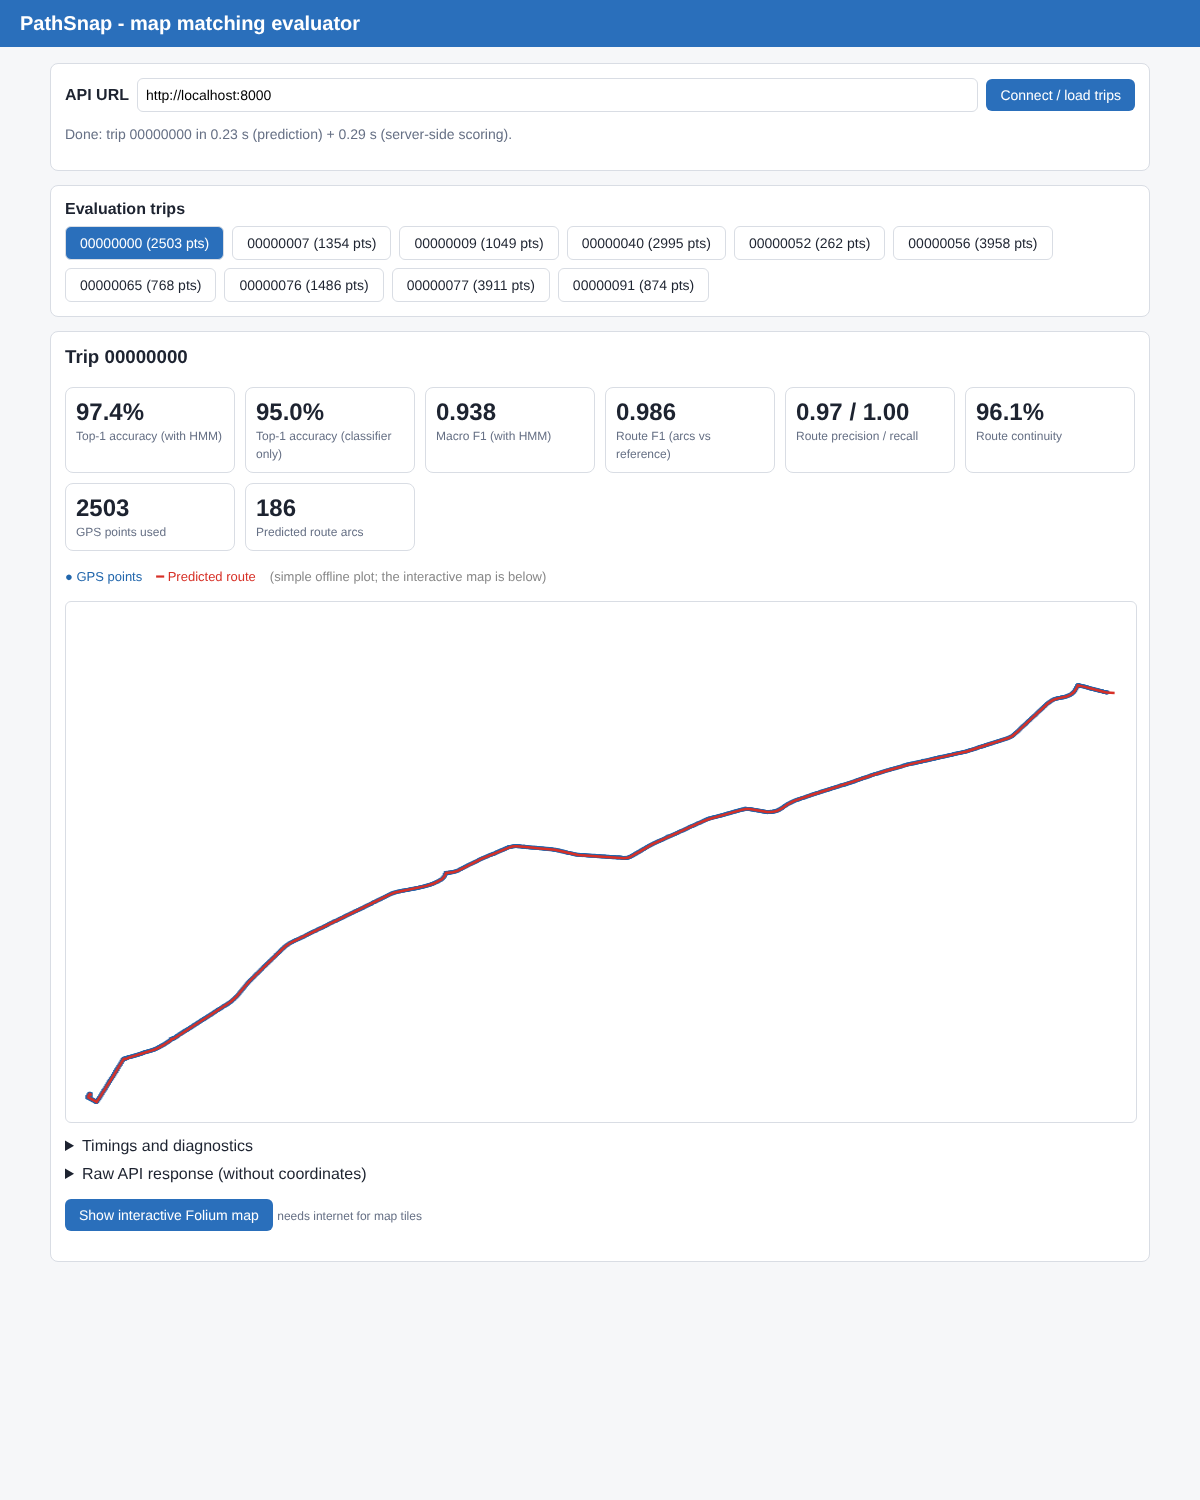
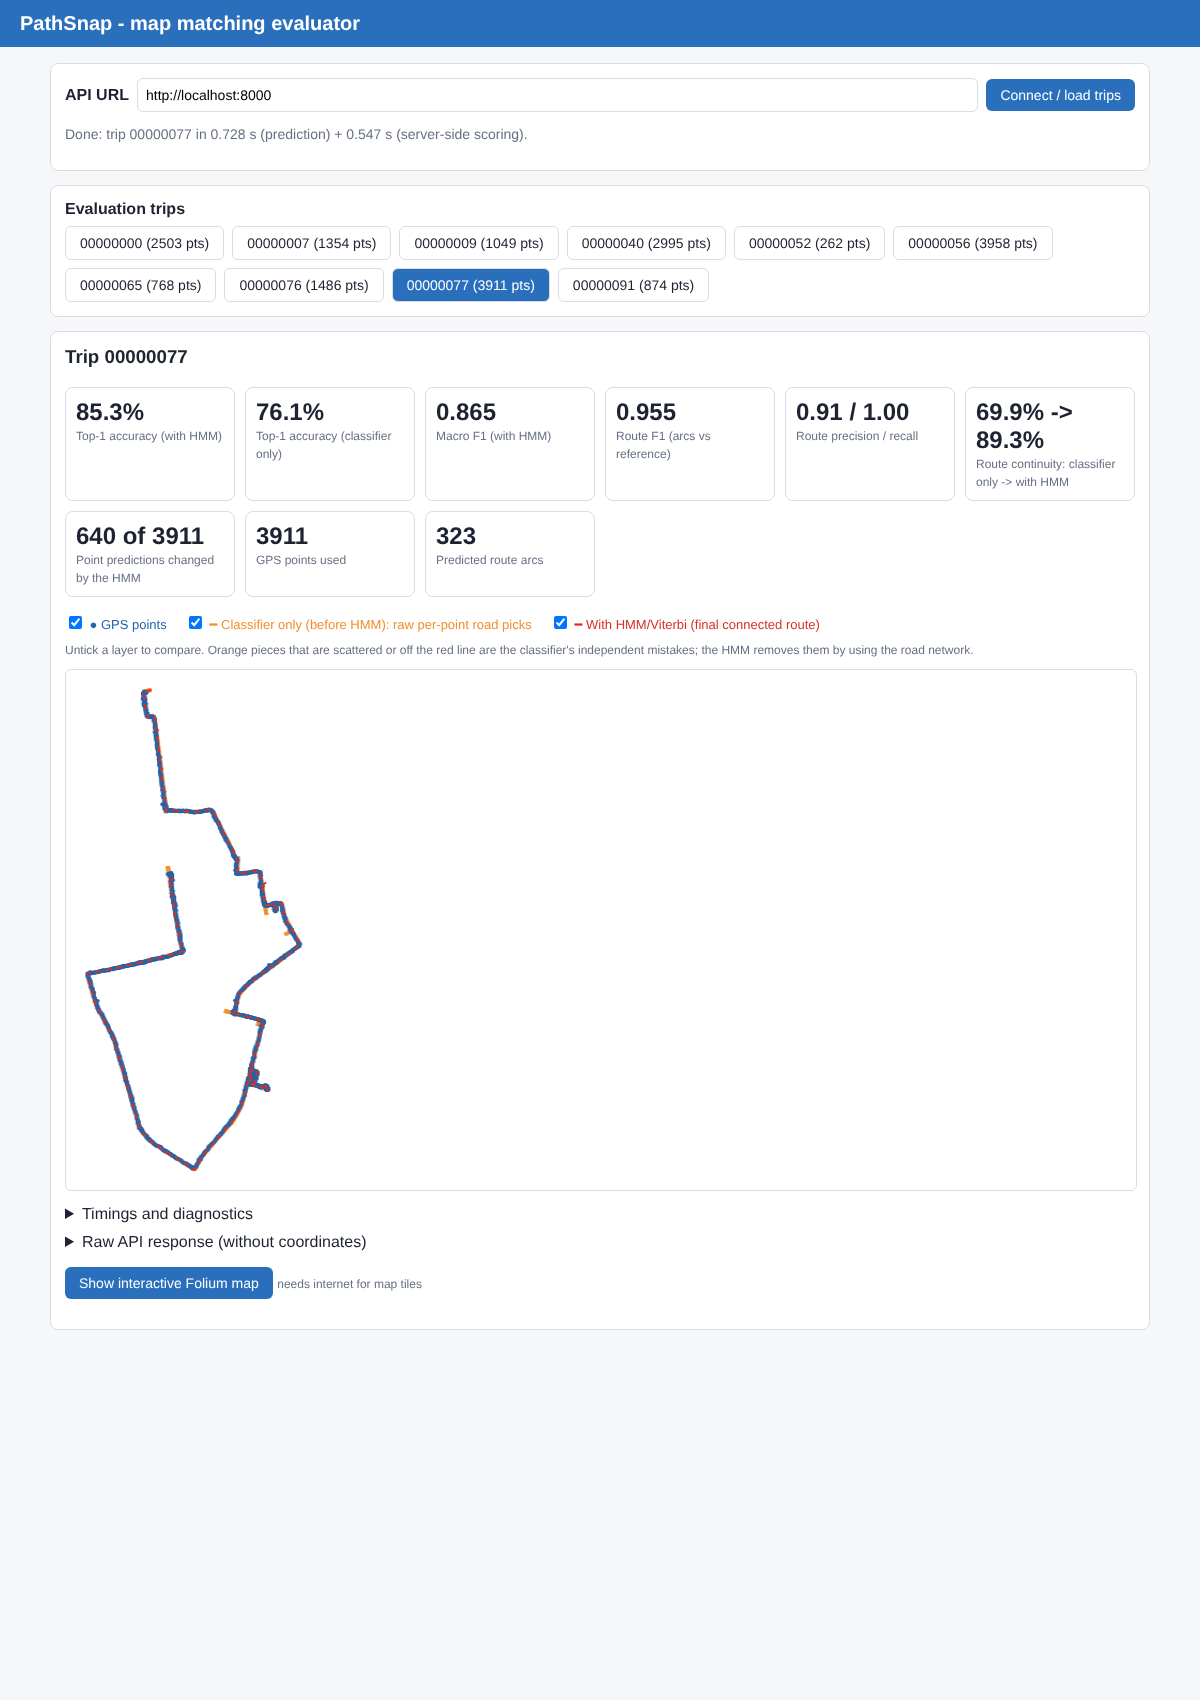
add road-network figure and updated UI screenshots for the report

diff --git a/scripts/13_network_figure.py b/scripts/13_network_figure.py
@@ -1,0 +1,37 @@
+"""Step 13: road-network visualisation for the report: whole network of two trips with GPS points and reference route.
+
+Left: one train trip.  Right: one student_test trip.  Output: reports/figures/eda_road_network.png
+"""
+import sys
+sys.path.insert(0, ".")
+import numpy as np
+import pandas as pd
+import matplotlib; matplotlib.use("Agg")
+import matplotlib.pyplot as plt
+from matplotlib.collections import LineCollection
+from src.config import TRAIN_DIR, STUDENT_TEST_DIR, FIGURES_DIR
+from src.data.loader import load_trip
+
+stats = pd.read_csv("results/eda_trip_stats.csv", dtype={"trip_id": str})
+pick = []
+for split, d in (("train", TRAIN_DIR), ("student_test", STUDENT_TEST_DIR)):
+    s = stats[(stats.split == split) & (stats.n_arcs.between(3000, 25000))].sort_values("n_arcs")
+    pick.append((split, d, s.iloc[len(s) // 2].trip_id))
+
+fig, axes = plt.subplots(1, 2, figsize=(14, 6.5))
+for ax, (split, d, tid) in zip(axes, pick):
+    t = load_trip(d / tid)
+    seg = np.stack([t.nodes_xy[t.arcs[:, 0]], t.nodes_xy[t.arcs[:, 1]]], axis=1)
+    ax.add_collection(LineCollection(seg, colors="#b0b5bb", linewidths=0.4, zorder=1))
+    rseg = seg[t.route]
+    ax.add_collection(LineCollection(rseg, colors="#1a9850", linewidths=2.2, zorder=2))
+    ax.scatter(*t.track_xy.T, s=2, c="#2166ac", zorder=3)
+    lo, hi = t.track_xy.min(axis=0) - 1500, t.track_xy.max(axis=0) + 1500
+    ax.set_xlim(lo[0], hi[0]); ax.set_ylim(lo[1], hi[1]); ax.set_aspect("equal")
+    ax.set_title(f"{split} trip {tid}: {len(t.arcs):,} arcs, {len(t.nodes):,} nodes, {len(t.track):,} GPS points")
+    ax.set_xlabel("x (m)"); ax.set_ylabel("y (m)")
+from matplotlib.lines import Line2D
+fig.legend(handles=[Line2D([], [], color="#b0b5bb", label="road network (all arcs)"), Line2D([], [], color="#1a9850", lw=2.2, label="reference route"),
+                    Line2D([], [], marker="o", ls="", color="#2166ac", label="GPS points")], loc="lower center", ncol=3)
+plt.tight_layout(rect=(0, 0.05, 1, 1)); plt.savefig(FIGURES_DIR / "eda_road_network.png", dpi=110)
+print("trips:", pick)
